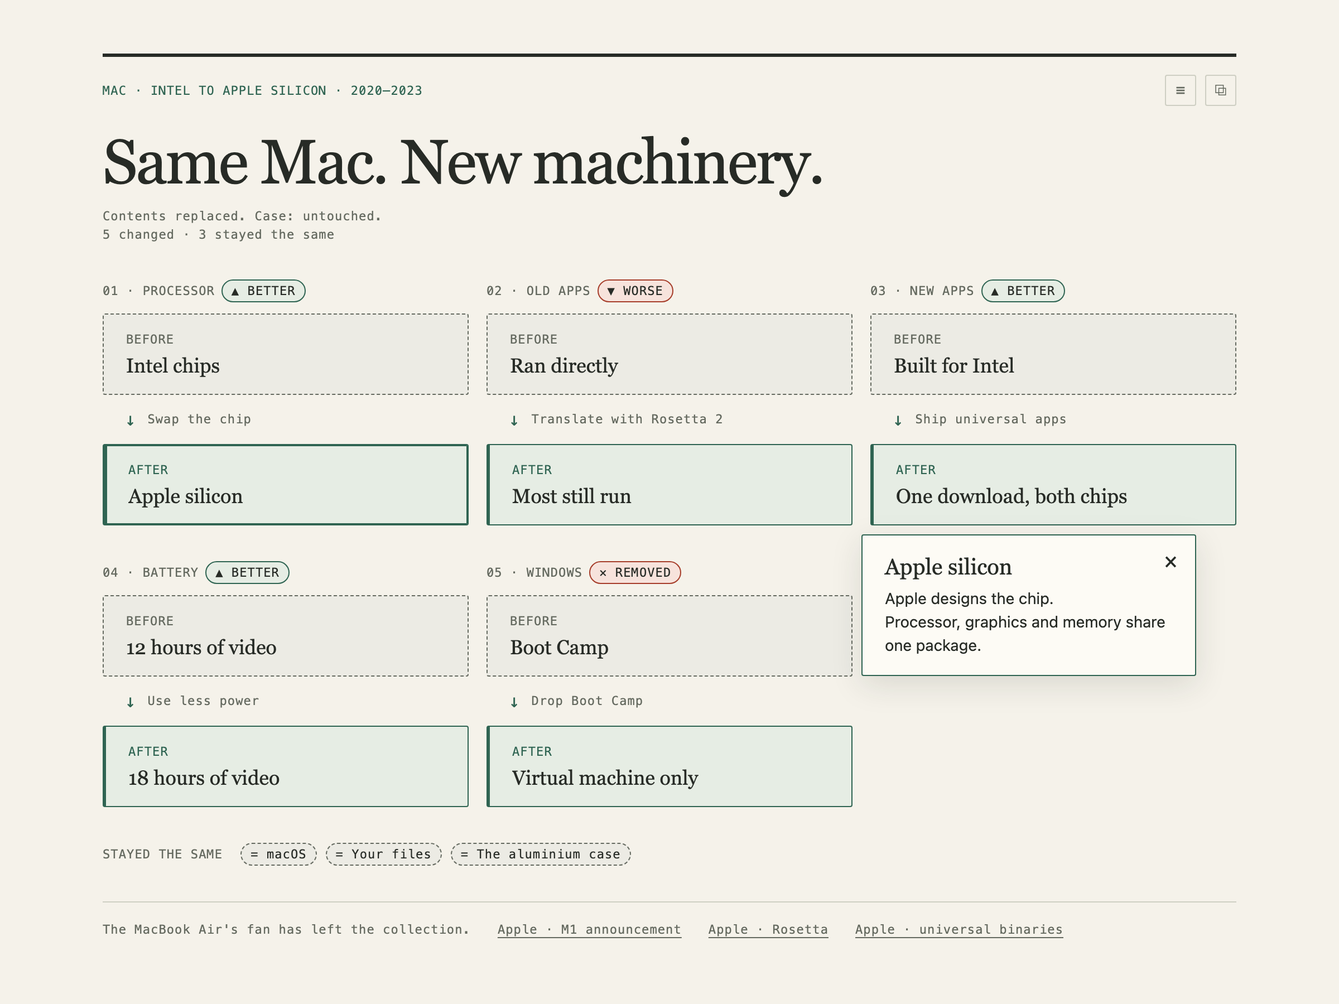
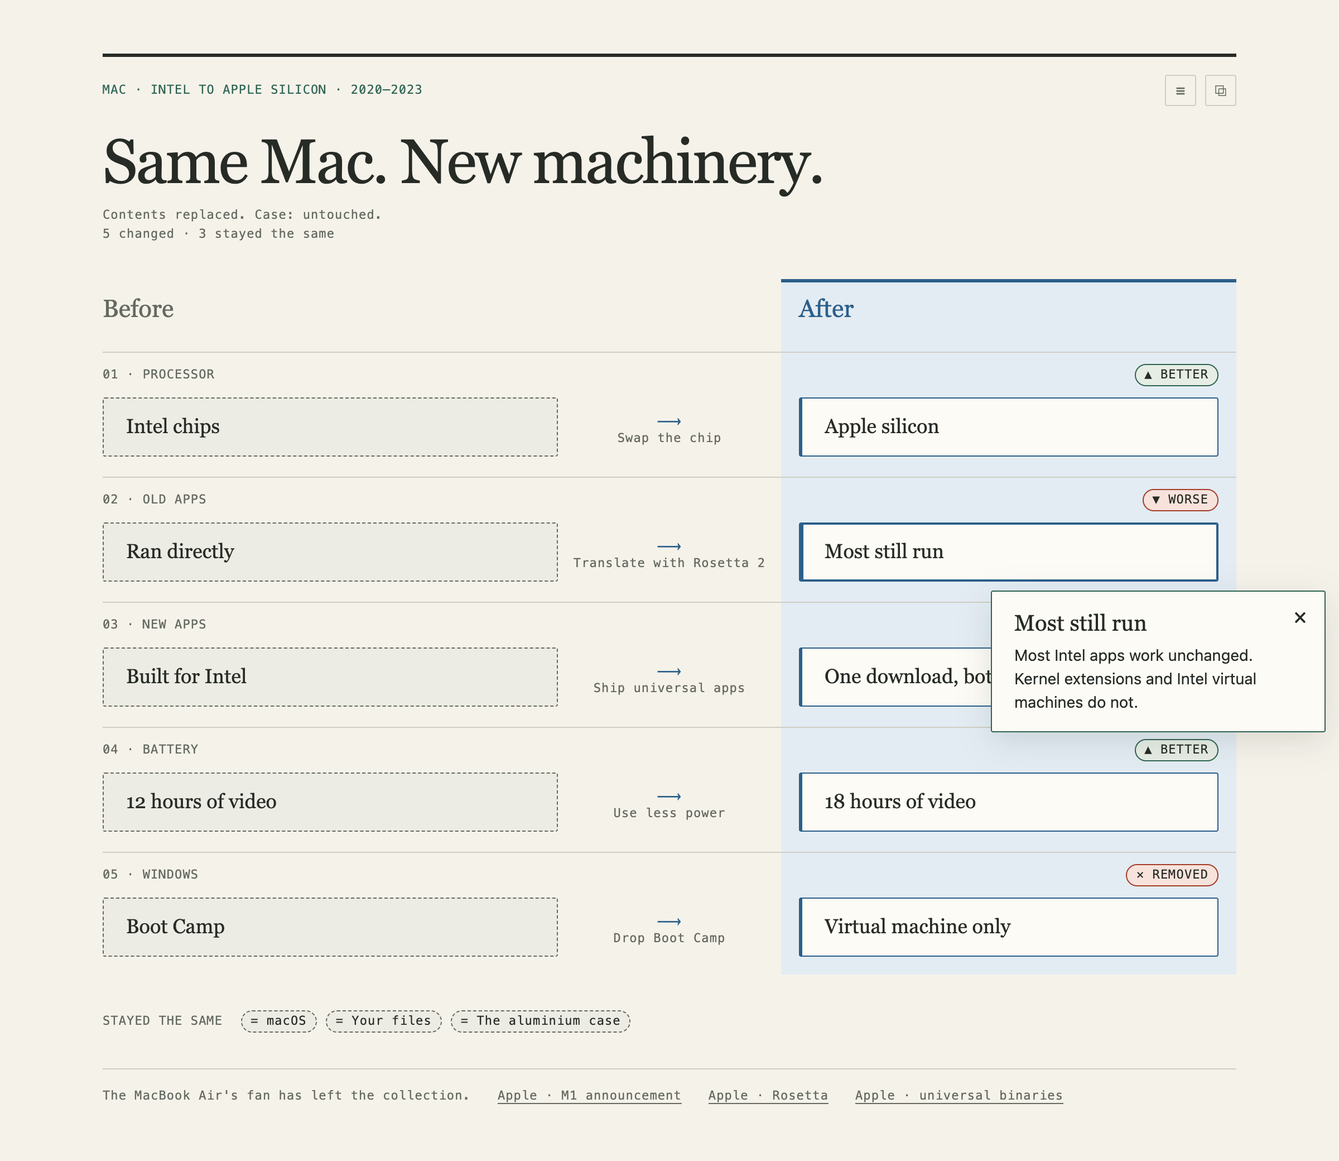
feat(before-after): before on the left, after on the right

diff --git a/skills/before-after/example.html b/skills/before-after/example.html
@@ -85,12 +85,26 @@ main{padding:0}
 footer a::after{content:' ' attr(href)}}
 
 /* before-after only */
-.grid{display:grid;grid-template-columns:repeat(auto-fit,minmax(min(280px,100%),1fr));gap:32px var(--gap)}
-.theme{display:grid;align-content:start}
-.theme h2 .chip{margin-left:6px}
-.box[data-role=green]{border-left-width:3px}
+.side{display:none}
+.theme{display:grid;max-width:480px;margin-bottom:32px}
+.theme h2{display:flex;justify-content:space-between;align-items:center;gap:8px}
+.after{border-left-width:3px}
 .same{display:flex;flex-wrap:wrap;align-items:center;gap:8px;margin-top:32px}
 .same h2{margin:0 8px 0 0}
+@media(min-width:720px){
+.sides{--mid:200px;position:relative;display:grid;grid-template-columns:1fr var(--mid) 1fr;padding-bottom:var(--gap)}
+.sides::before{content:'';position:absolute;inset:0 0 0 auto;width:calc((100% - var(--mid))/2);background:var(--t);border-top:3px solid var(--e)}
+.side,.theme>*{position:relative}
+.side{display:block;margin:0;padding:14px 0 6px;font:22px/1.2 var(--serif);color:var(--e)}
+.side+.side{grid-column:3;padding-left:var(--gap)}
+.theme{display:contents}
+.theme h2{grid-column:1/-1;margin:18px 0 10px;padding:10px var(--gap) 0 0;border-top:1px solid var(--line)}
+.before{grid-column:1}
+.sides .arrow{grid-column:2;flex-direction:column;justify-content:center;gap:0;padding:4px 12px;text-align:center}
+.sides .arrow::before{content:'⟶';font-size:22px;line-height:1}
+.sides .arrow .note{flex-basis:auto}
+.after{grid-column:3;width:auto;margin:0 var(--gap);background:var(--card)}
+.sides .box .tag{display:none}}
 </style>
 </head>
 <body>
@@ -220,7 +234,7 @@ const pick=(v,map,dflt)=>{const k=txt(v).toLowerCase();return Object.hasOwn(map,
 const slug=s=>txt(s).toLowerCase().replace(/[^\p{L}\p{N}]+/gu,'-'); // ids: case, spaces and punctuation don't matter
 const yes=v=>v===true||/^(true|yes|y|1)$/i.test(txt(v));
 
-let onShow=()=>{},onHide=()=>{},keepOpen=()=>false;
+let onShow=()=>{},onHide=()=>{},keepOpen=()=>false,popOpts;
 const main=el('main'),header=el('header'),footer=el('footer');
 // One popover for boxes and arrows: hover or focus shows, click or Enter pins, Esc or × closes.
 const pop=el('aside','detail'),popTitle=el('h2'),popBody=el('p'),closer=el('button','close','×');
@@ -249,7 +263,7 @@ function nestle(el,target,opts={}){ // target: an element, or any object with ge
 }
 function place(){
   if(!active)return;
-  if(innerWidth>=600)return nestle(pop,active);
+  if(innerWidth>=600)return nestle(pop,active,popOpts);
   const r=active.getBoundingClientRect(),h=pop.offsetHeight; // phone: dock away from the target
   pop.style.left='12px';pop.style.top=(r.bottom>innerHeight-h-24?12:innerHeight-h-12)+'px';
 }
@@ -362,21 +376,25 @@ function boot(key,render){
 
 const EFFECT={better:['green','▲','Better'],worse:['clay','▼','Worse'],same:['slate','=','Same'],removed:['clay','✕','Removed']};
 const EFFECTS={better:'better',improved:'better',faster:'better',worse:'worse',slower:'worse',same:'same',unchanged:'same',removed:'removed',deleted:'removed',dropped:'removed',gone:'removed'};
+const BEFORE='slate',AFTER='blue';
+popOpts={pull:300}; // rows fill the page, so the detail stays beside its box and covers the next row instead
 boot('themes',data=>{
-  const themes=list(data.themes).map(item),same=list(data.unchanged).map(txt).filter(Boolean),grid=el('section','grid');
+  const themes=list(data.themes).map(item),same=list(data.unchanged).map(txt).filter(Boolean),sides=role(el('section','sides'),AFTER);
   if(txt(data.summary))header.append(callout('In short',txt(data.summary)));
   header.append(el('p','caption',themes.length+' changed'+(same.length?' · '+same.length+' stayed the same':'')));
+  // Wide screens: every Before on the left, every After on the right. Narrow: each theme stacks, and the boxes carry the tags.
+  [['Before',BEFORE],['After',AFTER]].forEach(([name,r])=>{const p=role(el('p','side',name),r);p.dataset.obstacle='';sides.append(p)});
   themes.forEach((t,i)=>{
-    const theme=el('section','theme stack'),h=el('h2','tag',String(i+1).padStart(2,'0')+' · '+t.label),e=EFFECT[pick(t.effect,EFFECTS,'')];
+    const theme=el('section','theme'),h=el('h2','tag',String(i+1).padStart(2,'0')+' · '+t.label),e=EFFECT[pick(t.effect,EFFECTS,'')];
     if(e)h.append(role(el('span','chip',e[1]+' '+e[2]),e[0]));
     theme.append(h);
     const before=t.before??t.old??t.from,change=t.change??t.how,after=t.after??t.new??t.to;
-    if(before!=null)theme.append(box(item(before),'Before','slate'));
-    if(change!=null)theme.append(arrow(item(change),'green'));
-    if(after!=null)theme.append(box(item(after),'After','green'));
-    grid.append(theme);
+    if(before!=null)theme.append(box(item(before),'Before',BEFORE,'before'));
+    if(change!=null)theme.append(arrow(item(change),AFTER));
+    if(after!=null)theme.append(box(item(after),'After',AFTER,'after'));
+    sides.append(theme);
   });
-  main.append(grid);
+  main.append(sides);
   if(same.length){
     const s=el('section','same');s.append(el('h2','tag','Stayed the same'));
     same.forEach(x=>s.append(role(el('span','chip','= '+x),'slate')));main.append(s);

diff --git a/skills/before-after/template.html b/skills/before-after/template.html
@@ -85,12 +85,26 @@ main{padding:0}
 footer a::after{content:' ' attr(href)}}
 
 /* before-after only */
-.grid{display:grid;grid-template-columns:repeat(auto-fit,minmax(min(280px,100%),1fr));gap:32px var(--gap)}
-.theme{display:grid;align-content:start}
-.theme h2 .chip{margin-left:6px}
-.box[data-role=green]{border-left-width:3px}
+.side{display:none}
+.theme{display:grid;max-width:480px;margin-bottom:32px}
+.theme h2{display:flex;justify-content:space-between;align-items:center;gap:8px}
+.after{border-left-width:3px}
 .same{display:flex;flex-wrap:wrap;align-items:center;gap:8px;margin-top:32px}
 .same h2{margin:0 8px 0 0}
+@media(min-width:720px){
+.sides{--mid:200px;position:relative;display:grid;grid-template-columns:1fr var(--mid) 1fr;padding-bottom:var(--gap)}
+.sides::before{content:'';position:absolute;inset:0 0 0 auto;width:calc((100% - var(--mid))/2);background:var(--t);border-top:3px solid var(--e)}
+.side,.theme>*{position:relative}
+.side{display:block;margin:0;padding:14px 0 6px;font:22px/1.2 var(--serif);color:var(--e)}
+.side+.side{grid-column:3;padding-left:var(--gap)}
+.theme{display:contents}
+.theme h2{grid-column:1/-1;margin:18px 0 10px;padding:10px var(--gap) 0 0;border-top:1px solid var(--line)}
+.before{grid-column:1}
+.sides .arrow{grid-column:2;flex-direction:column;justify-content:center;gap:0;padding:4px 12px;text-align:center}
+.sides .arrow::before{content:'⟶';font-size:22px;line-height:1}
+.sides .arrow .note{flex-basis:auto}
+.after{grid-column:3;width:auto;margin:0 var(--gap);background:var(--card)}
+.sides .box .tag{display:none}}
 </style>
 </head>
 <body>
@@ -114,7 +128,7 @@ const pick=(v,map,dflt)=>{const k=txt(v).toLowerCase();return Object.hasOwn(map,
 const slug=s=>txt(s).toLowerCase().replace(/[^\p{L}\p{N}]+/gu,'-'); // ids: case, spaces and punctuation don't matter
 const yes=v=>v===true||/^(true|yes|y|1)$/i.test(txt(v));
 
-let onShow=()=>{},onHide=()=>{},keepOpen=()=>false;
+let onShow=()=>{},onHide=()=>{},keepOpen=()=>false,popOpts;
 const main=el('main'),header=el('header'),footer=el('footer');
 // One popover for boxes and arrows: hover or focus shows, click or Enter pins, Esc or × closes.
 const pop=el('aside','detail'),popTitle=el('h2'),popBody=el('p'),closer=el('button','close','×');
@@ -143,7 +157,7 @@ function nestle(el,target,opts={}){ // target: an element, or any object with ge
 }
 function place(){
   if(!active)return;
-  if(innerWidth>=600)return nestle(pop,active);
+  if(innerWidth>=600)return nestle(pop,active,popOpts);
   const r=active.getBoundingClientRect(),h=pop.offsetHeight; // phone: dock away from the target
   pop.style.left='12px';pop.style.top=(r.bottom>innerHeight-h-24?12:innerHeight-h-12)+'px';
 }
@@ -256,21 +270,25 @@ function boot(key,render){
 
 const EFFECT={better:['green','▲','Better'],worse:['clay','▼','Worse'],same:['slate','=','Same'],removed:['clay','✕','Removed']};
 const EFFECTS={better:'better',improved:'better',faster:'better',worse:'worse',slower:'worse',same:'same',unchanged:'same',removed:'removed',deleted:'removed',dropped:'removed',gone:'removed'};
+const BEFORE='slate',AFTER='blue';
+popOpts={pull:300}; // rows fill the page, so the detail stays beside its box and covers the next row instead
 boot('themes',data=>{
-  const themes=list(data.themes).map(item),same=list(data.unchanged).map(txt).filter(Boolean),grid=el('section','grid');
+  const themes=list(data.themes).map(item),same=list(data.unchanged).map(txt).filter(Boolean),sides=role(el('section','sides'),AFTER);
   if(txt(data.summary))header.append(callout('In short',txt(data.summary)));
   header.append(el('p','caption',themes.length+' changed'+(same.length?' · '+same.length+' stayed the same':'')));
+  // Wide screens: every Before on the left, every After on the right. Narrow: each theme stacks, and the boxes carry the tags.
+  [['Before',BEFORE],['After',AFTER]].forEach(([name,r])=>{const p=role(el('p','side',name),r);p.dataset.obstacle='';sides.append(p)});
   themes.forEach((t,i)=>{
-    const theme=el('section','theme stack'),h=el('h2','tag',String(i+1).padStart(2,'0')+' · '+t.label),e=EFFECT[pick(t.effect,EFFECTS,'')];
+    const theme=el('section','theme'),h=el('h2','tag',String(i+1).padStart(2,'0')+' · '+t.label),e=EFFECT[pick(t.effect,EFFECTS,'')];
     if(e)h.append(role(el('span','chip',e[1]+' '+e[2]),e[0]));
     theme.append(h);
     const before=t.before??t.old??t.from,change=t.change??t.how,after=t.after??t.new??t.to;
-    if(before!=null)theme.append(box(item(before),'Before','slate'));
-    if(change!=null)theme.append(arrow(item(change),'green'));
-    if(after!=null)theme.append(box(item(after),'After','green'));
-    grid.append(theme);
+    if(before!=null)theme.append(box(item(before),'Before',BEFORE,'before'));
+    if(change!=null)theme.append(arrow(item(change),AFTER));
+    if(after!=null)theme.append(box(item(after),'After',AFTER,'after'));
+    sides.append(theme);
   });
-  main.append(grid);
+  main.append(sides);
   if(same.length){
     const s=el('section','same');s.append(el('h2','tag','Stayed the same'));
     same.forEach(x=>s.append(role(el('span','chip','= '+x),'slate')));main.append(s);

diff --git a/src/before-after/script.js b/src/before-after/script.js
@@ -1,20 +1,24 @@
 const EFFECT={better:['green','▲','Better'],worse:['clay','▼','Worse'],same:['slate','=','Same'],removed:['clay','✕','Removed']};
 const EFFECTS={better:'better',improved:'better',faster:'better',worse:'worse',slower:'worse',same:'same',unchanged:'same',removed:'removed',deleted:'removed',dropped:'removed',gone:'removed'};
+const BEFORE='slate',AFTER='blue';
+popOpts={pull:300}; // rows fill the page, so the detail stays beside its box and covers the next row instead
 boot('themes',data=>{
-  const themes=list(data.themes).map(item),same=list(data.unchanged).map(txt).filter(Boolean),grid=el('section','grid');
+  const themes=list(data.themes).map(item),same=list(data.unchanged).map(txt).filter(Boolean),sides=role(el('section','sides'),AFTER);
   if(txt(data.summary))header.append(callout('In short',txt(data.summary)));
   header.append(el('p','caption',themes.length+' changed'+(same.length?' · '+same.length+' stayed the same':'')));
+  // Wide screens: every Before on the left, every After on the right. Narrow: each theme stacks, and the boxes carry the tags.
+  [['Before',BEFORE],['After',AFTER]].forEach(([name,r])=>{const p=role(el('p','side',name),r);p.dataset.obstacle='';sides.append(p)});
   themes.forEach((t,i)=>{
-    const theme=el('section','theme stack'),h=el('h2','tag',String(i+1).padStart(2,'0')+' · '+t.label),e=EFFECT[pick(t.effect,EFFECTS,'')];
+    const theme=el('section','theme'),h=el('h2','tag',String(i+1).padStart(2,'0')+' · '+t.label),e=EFFECT[pick(t.effect,EFFECTS,'')];
     if(e)h.append(role(el('span','chip',e[1]+' '+e[2]),e[0]));
     theme.append(h);
     const before=t.before??t.old??t.from,change=t.change??t.how,after=t.after??t.new??t.to;
-    if(before!=null)theme.append(box(item(before),'Before','slate'));
-    if(change!=null)theme.append(arrow(item(change),'green'));
-    if(after!=null)theme.append(box(item(after),'After','green'));
-    grid.append(theme);
+    if(before!=null)theme.append(box(item(before),'Before',BEFORE,'before'));
+    if(change!=null)theme.append(arrow(item(change),AFTER));
+    if(after!=null)theme.append(box(item(after),'After',AFTER,'after'));
+    sides.append(theme);
   });
-  main.append(grid);
+  main.append(sides);
   if(same.length){
     const s=el('section','same');s.append(el('h2','tag','Stayed the same'));
     same.forEach(x=>s.append(role(el('span','chip','= '+x),'slate')));main.append(s);

diff --git a/skills/pr-explainer/example.html b/skills/pr-explainer/example.html
@@ -238,7 +238,7 @@ const pick=(v,map,dflt)=>{const k=txt(v).toLowerCase();return Object.hasOwn(map,
 const slug=s=>txt(s).toLowerCase().replace(/[^\p{L}\p{N}]+/gu,'-'); // ids: case, spaces and punctuation don't matter
 const yes=v=>v===true||/^(true|yes|y|1)$/i.test(txt(v));
 
-let onShow=()=>{},onHide=()=>{},keepOpen=()=>false;
+let onShow=()=>{},onHide=()=>{},keepOpen=()=>false,popOpts;
 const main=el('main'),header=el('header'),footer=el('footer');
 // One popover for boxes and arrows: hover or focus shows, click or Enter pins, Esc or × closes.
 const pop=el('aside','detail'),popTitle=el('h2'),popBody=el('p'),closer=el('button','close','×');
@@ -267,7 +267,7 @@ function nestle(el,target,opts={}){ // target: an element, or any object with ge
 }
 function place(){
   if(!active)return;
-  if(innerWidth>=600)return nestle(pop,active);
+  if(innerWidth>=600)return nestle(pop,active,popOpts);
   const r=active.getBoundingClientRect(),h=pop.offsetHeight; // phone: dock away from the target
   pop.style.left='12px';pop.style.top=(r.bottom>innerHeight-h-24?12:innerHeight-h-12)+'px';
 }
@@ -403,7 +403,7 @@ boot('flow',data=>{
   const rows={before:rowsOf(side.before).map(cells),after:rowsOf(side.after).map(cells)};
   if(rows.before.length||rows.after.length){
     const tables=el('section','tables');
-    [['before','after','slate'],['after','before','green']].forEach(([s,other,r])=>{
+    [['before','after','slate'],['after','before','blue']].forEach(([s,other,r])=>{
       if(!rows[s].length)return;
       // Pair rows by their first cell; if none match, pair them by position.
       const keyed=rows[s].some(row=>rows[other].some(o=>o[0]===row[0])),table=role(el('table'),r),head=el('tr'),note=txt(side[s]?.note),wrap=el('div','scroll');

diff --git a/skills/pr-explainer/template.html b/skills/pr-explainer/template.html
@@ -134,7 +134,7 @@ const pick=(v,map,dflt)=>{const k=txt(v).toLowerCase();return Object.hasOwn(map,
 const slug=s=>txt(s).toLowerCase().replace(/[^\p{L}\p{N}]+/gu,'-'); // ids: case, spaces and punctuation don't matter
 const yes=v=>v===true||/^(true|yes|y|1)$/i.test(txt(v));
 
-let onShow=()=>{},onHide=()=>{},keepOpen=()=>false;
+let onShow=()=>{},onHide=()=>{},keepOpen=()=>false,popOpts;
 const main=el('main'),header=el('header'),footer=el('footer');
 // One popover for boxes and arrows: hover or focus shows, click or Enter pins, Esc or × closes.
 const pop=el('aside','detail'),popTitle=el('h2'),popBody=el('p'),closer=el('button','close','×');
@@ -163,7 +163,7 @@ function nestle(el,target,opts={}){ // target: an element, or any object with ge
 }
 function place(){
   if(!active)return;
-  if(innerWidth>=600)return nestle(pop,active);
+  if(innerWidth>=600)return nestle(pop,active,popOpts);
   const r=active.getBoundingClientRect(),h=pop.offsetHeight; // phone: dock away from the target
   pop.style.left='12px';pop.style.top=(r.bottom>innerHeight-h-24?12:innerHeight-h-12)+'px';
 }
@@ -299,7 +299,7 @@ boot('flow',data=>{
   const rows={before:rowsOf(side.before).map(cells),after:rowsOf(side.after).map(cells)};
   if(rows.before.length||rows.after.length){
     const tables=el('section','tables');
-    [['before','after','slate'],['after','before','green']].forEach(([s,other,r])=>{
+    [['before','after','slate'],['after','before','blue']].forEach(([s,other,r])=>{
       if(!rows[s].length)return;
       // Pair rows by their first cell; if none match, pair them by position.
       const keyed=rows[s].some(row=>rows[other].some(o=>o[0]===row[0])),table=role(el('table'),r),head=el('tr'),note=txt(side[s]?.note),wrap=el('div','scroll');

diff --git a/src/before-after/style.css b/src/before-after/style.css
@@ -1,6 +1,20 @@
-.grid{display:grid;grid-template-columns:repeat(auto-fit,minmax(min(280px,100%),1fr));gap:32px var(--gap)}
-.theme{display:grid;align-content:start}
-.theme h2 .chip{margin-left:6px}
-.box[data-role=green]{border-left-width:3px}
+.side{display:none}
+.theme{display:grid;max-width:480px;margin-bottom:32px}
+.theme h2{display:flex;justify-content:space-between;align-items:center;gap:8px}
+.after{border-left-width:3px}
 .same{display:flex;flex-wrap:wrap;align-items:center;gap:8px;margin-top:32px}
 .same h2{margin:0 8px 0 0}
+@media(min-width:720px){
+.sides{--mid:200px;position:relative;display:grid;grid-template-columns:1fr var(--mid) 1fr;padding-bottom:var(--gap)}
+.sides::before{content:'';position:absolute;inset:0 0 0 auto;width:calc((100% - var(--mid))/2);background:var(--t);border-top:3px solid var(--e)}
+.side,.theme>*{position:relative}
+.side{display:block;margin:0;padding:14px 0 6px;font:22px/1.2 var(--serif);color:var(--e)}
+.side+.side{grid-column:3;padding-left:var(--gap)}
+.theme{display:contents}
+.theme h2{grid-column:1/-1;margin:18px 0 10px;padding:10px var(--gap) 0 0;border-top:1px solid var(--line)}
+.before{grid-column:1}
+.sides .arrow{grid-column:2;flex-direction:column;justify-content:center;gap:0;padding:4px 12px;text-align:center}
+.sides .arrow::before{content:'⟶';font-size:22px;line-height:1}
+.sides .arrow .note{flex-basis:auto}
+.after{grid-column:3;width:auto;margin:0 var(--gap);background:var(--card)}
+.sides .box .tag{display:none}}

diff --git a/skills/flow-diagram/example.html b/skills/flow-diagram/example.html
@@ -195,7 +195,7 @@ const pick=(v,map,dflt)=>{const k=txt(v).toLowerCase();return Object.hasOwn(map,
 const slug=s=>txt(s).toLowerCase().replace(/[^\p{L}\p{N}]+/gu,'-'); // ids: case, spaces and punctuation don't matter
 const yes=v=>v===true||/^(true|yes|y|1)$/i.test(txt(v));
 
-let onShow=()=>{},onHide=()=>{},keepOpen=()=>false;
+let onShow=()=>{},onHide=()=>{},keepOpen=()=>false,popOpts;
 const main=el('main'),header=el('header'),footer=el('footer');
 // One popover for boxes and arrows: hover or focus shows, click or Enter pins, Esc or × closes.
 const pop=el('aside','detail'),popTitle=el('h2'),popBody=el('p'),closer=el('button','close','×');
@@ -224,7 +224,7 @@ function nestle(el,target,opts={}){ // target: an element, or any object with ge
 }
 function place(){
   if(!active)return;
-  if(innerWidth>=600)return nestle(pop,active);
+  if(innerWidth>=600)return nestle(pop,active,popOpts);
   const r=active.getBoundingClientRect(),h=pop.offsetHeight; // phone: dock away from the target
   pop.style.left='12px';pop.style.top=(r.bottom>innerHeight-h-24?12:innerHeight-h-12)+'px';
 }

diff --git a/skills/flow-diagram/template.html b/skills/flow-diagram/template.html
@@ -113,7 +113,7 @@ const pick=(v,map,dflt)=>{const k=txt(v).toLowerCase();return Object.hasOwn(map,
 const slug=s=>txt(s).toLowerCase().replace(/[^\p{L}\p{N}]+/gu,'-'); // ids: case, spaces and punctuation don't matter
 const yes=v=>v===true||/^(true|yes|y|1)$/i.test(txt(v));
 
-let onShow=()=>{},onHide=()=>{},keepOpen=()=>false;
+let onShow=()=>{},onHide=()=>{},keepOpen=()=>false,popOpts;
 const main=el('main'),header=el('header'),footer=el('footer');
 // One popover for boxes and arrows: hover or focus shows, click or Enter pins, Esc or × closes.
 const pop=el('aside','detail'),popTitle=el('h2'),popBody=el('p'),closer=el('button','close','×');
@@ -142,7 +142,7 @@ function nestle(el,target,opts={}){ // target: an element, or any object with ge
 }
 function place(){
   if(!active)return;
-  if(innerWidth>=600)return nestle(pop,active);
+  if(innerWidth>=600)return nestle(pop,active,popOpts);
   const r=active.getBoundingClientRect(),h=pop.offsetHeight; // phone: dock away from the target
   pop.style.left='12px';pop.style.top=(r.bottom>innerHeight-h-24?12:innerHeight-h-12)+'px';
 }

diff --git a/skills/grain-map/example.html b/skills/grain-map/example.html
@@ -161,7 +161,7 @@ const pick=(v,map,dflt)=>{const k=txt(v).toLowerCase();return Object.hasOwn(map,
 const slug=s=>txt(s).toLowerCase().replace(/[^\p{L}\p{N}]+/gu,'-'); // ids: case, spaces and punctuation don't matter
 const yes=v=>v===true||/^(true|yes|y|1)$/i.test(txt(v));
 
-let onShow=()=>{},onHide=()=>{},keepOpen=()=>false;
+let onShow=()=>{},onHide=()=>{},keepOpen=()=>false,popOpts;
 const main=el('main'),header=el('header'),footer=el('footer');
 // One popover for boxes and arrows: hover or focus shows, click or Enter pins, Esc or × closes.
 const pop=el('aside','detail'),popTitle=el('h2'),popBody=el('p'),closer=el('button','close','×');
@@ -190,7 +190,7 @@ function nestle(el,target,opts={}){ // target: an element, or any object with ge
 }
 function place(){
   if(!active)return;
-  if(innerWidth>=600)return nestle(pop,active);
+  if(innerWidth>=600)return nestle(pop,active,popOpts);
   const r=active.getBoundingClientRect(),h=pop.offsetHeight; // phone: dock away from the target
   pop.style.left='12px';pop.style.top=(r.bottom>innerHeight-h-24?12:innerHeight-h-12)+'px';
 }

diff --git a/skills/grain-map/template.html b/skills/grain-map/template.html
@@ -115,7 +115,7 @@ const pick=(v,map,dflt)=>{const k=txt(v).toLowerCase();return Object.hasOwn(map,
 const slug=s=>txt(s).toLowerCase().replace(/[^\p{L}\p{N}]+/gu,'-'); // ids: case, spaces and punctuation don't matter
 const yes=v=>v===true||/^(true|yes|y|1)$/i.test(txt(v));
 
-let onShow=()=>{},onHide=()=>{},keepOpen=()=>false;
+let onShow=()=>{},onHide=()=>{},keepOpen=()=>false,popOpts;
 const main=el('main'),header=el('header'),footer=el('footer');
 // One popover for boxes and arrows: hover or focus shows, click or Enter pins, Esc or × closes.
 const pop=el('aside','detail'),popTitle=el('h2'),popBody=el('p'),closer=el('button','close','×');
@@ -144,7 +144,7 @@ function nestle(el,target,opts={}){ // target: an element, or any object with ge
 }
 function place(){
   if(!active)return;
-  if(innerWidth>=600)return nestle(pop,active);
+  if(innerWidth>=600)return nestle(pop,active,popOpts);
   const r=active.getBoundingClientRect(),h=pop.offsetHeight; // phone: dock away from the target
   pop.style.left='12px';pop.style.top=(r.bottom>innerHeight-h-24?12:innerHeight-h-12)+'px';
 }

diff --git a/skills/join-explainer/example.html b/skills/join-explainer/example.html
@@ -145,7 +145,7 @@ const pick=(v,map,dflt)=>{const k=txt(v).toLowerCase();return Object.hasOwn(map,
 const slug=s=>txt(s).toLowerCase().replace(/[^\p{L}\p{N}]+/gu,'-'); // ids: case, spaces and punctuation don't matter
 const yes=v=>v===true||/^(true|yes|y|1)$/i.test(txt(v));
 
-let onShow=()=>{},onHide=()=>{},keepOpen=()=>false;
+let onShow=()=>{},onHide=()=>{},keepOpen=()=>false,popOpts;
 const main=el('main'),header=el('header'),footer=el('footer');
 // One popover for boxes and arrows: hover or focus shows, click or Enter pins, Esc or × closes.
 const pop=el('aside','detail'),popTitle=el('h2'),popBody=el('p'),closer=el('button','close','×');
@@ -174,7 +174,7 @@ function nestle(el,target,opts={}){ // target: an element, or any object with ge
 }
 function place(){
   if(!active)return;
-  if(innerWidth>=600)return nestle(pop,active);
+  if(innerWidth>=600)return nestle(pop,active,popOpts);
   const r=active.getBoundingClientRect(),h=pop.offsetHeight; // phone: dock away from the target
   pop.style.left='12px';pop.style.top=(r.bottom>innerHeight-h-24?12:innerHeight-h-12)+'px';
 }

diff --git a/skills/join-explainer/template.html b/skills/join-explainer/template.html
@@ -115,7 +115,7 @@ const pick=(v,map,dflt)=>{const k=txt(v).toLowerCase();return Object.hasOwn(map,
 const slug=s=>txt(s).toLowerCase().replace(/[^\p{L}\p{N}]+/gu,'-'); // ids: case, spaces and punctuation don't matter
 const yes=v=>v===true||/^(true|yes|y|1)$/i.test(txt(v));
 
-let onShow=()=>{},onHide=()=>{},keepOpen=()=>false;
+let onShow=()=>{},onHide=()=>{},keepOpen=()=>false,popOpts;
 const main=el('main'),header=el('header'),footer=el('footer');
 // One popover for boxes and arrows: hover or focus shows, click or Enter pins, Esc or × closes.
 const pop=el('aside','detail'),popTitle=el('h2'),popBody=el('p'),closer=el('button','close','×');
@@ -144,7 +144,7 @@ function nestle(el,target,opts={}){ // target: an element, or any object with ge
 }
 function place(){
   if(!active)return;
-  if(innerWidth>=600)return nestle(pop,active);
+  if(innerWidth>=600)return nestle(pop,active,popOpts);
   const r=active.getBoundingClientRect(),h=pop.offsetHeight; // phone: dock away from the target
   pop.style.left='12px';pop.style.top=(r.bottom>innerHeight-h-24?12:innerHeight-h-12)+'px';
 }
